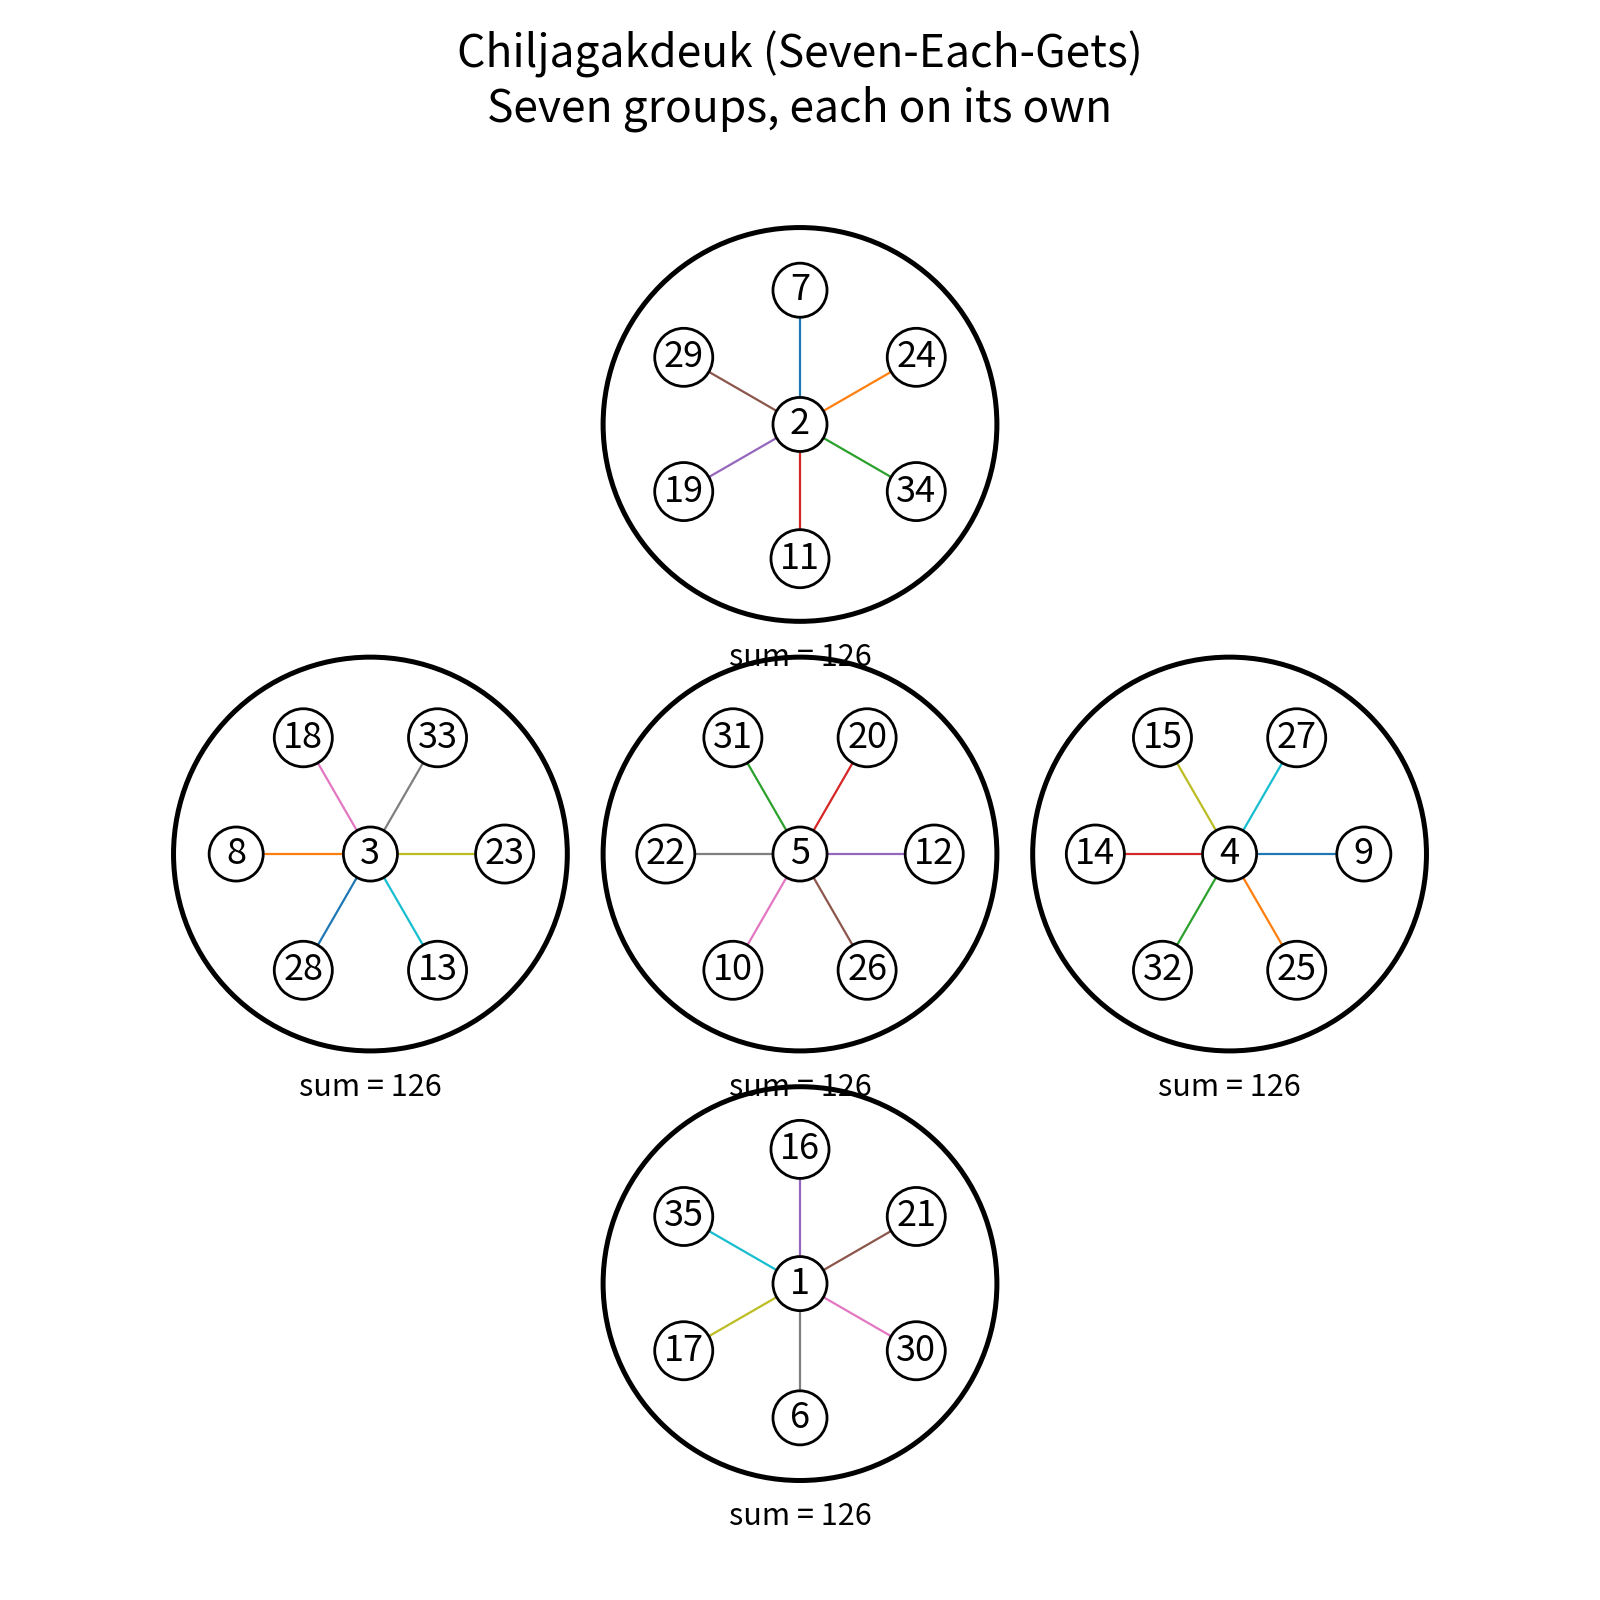
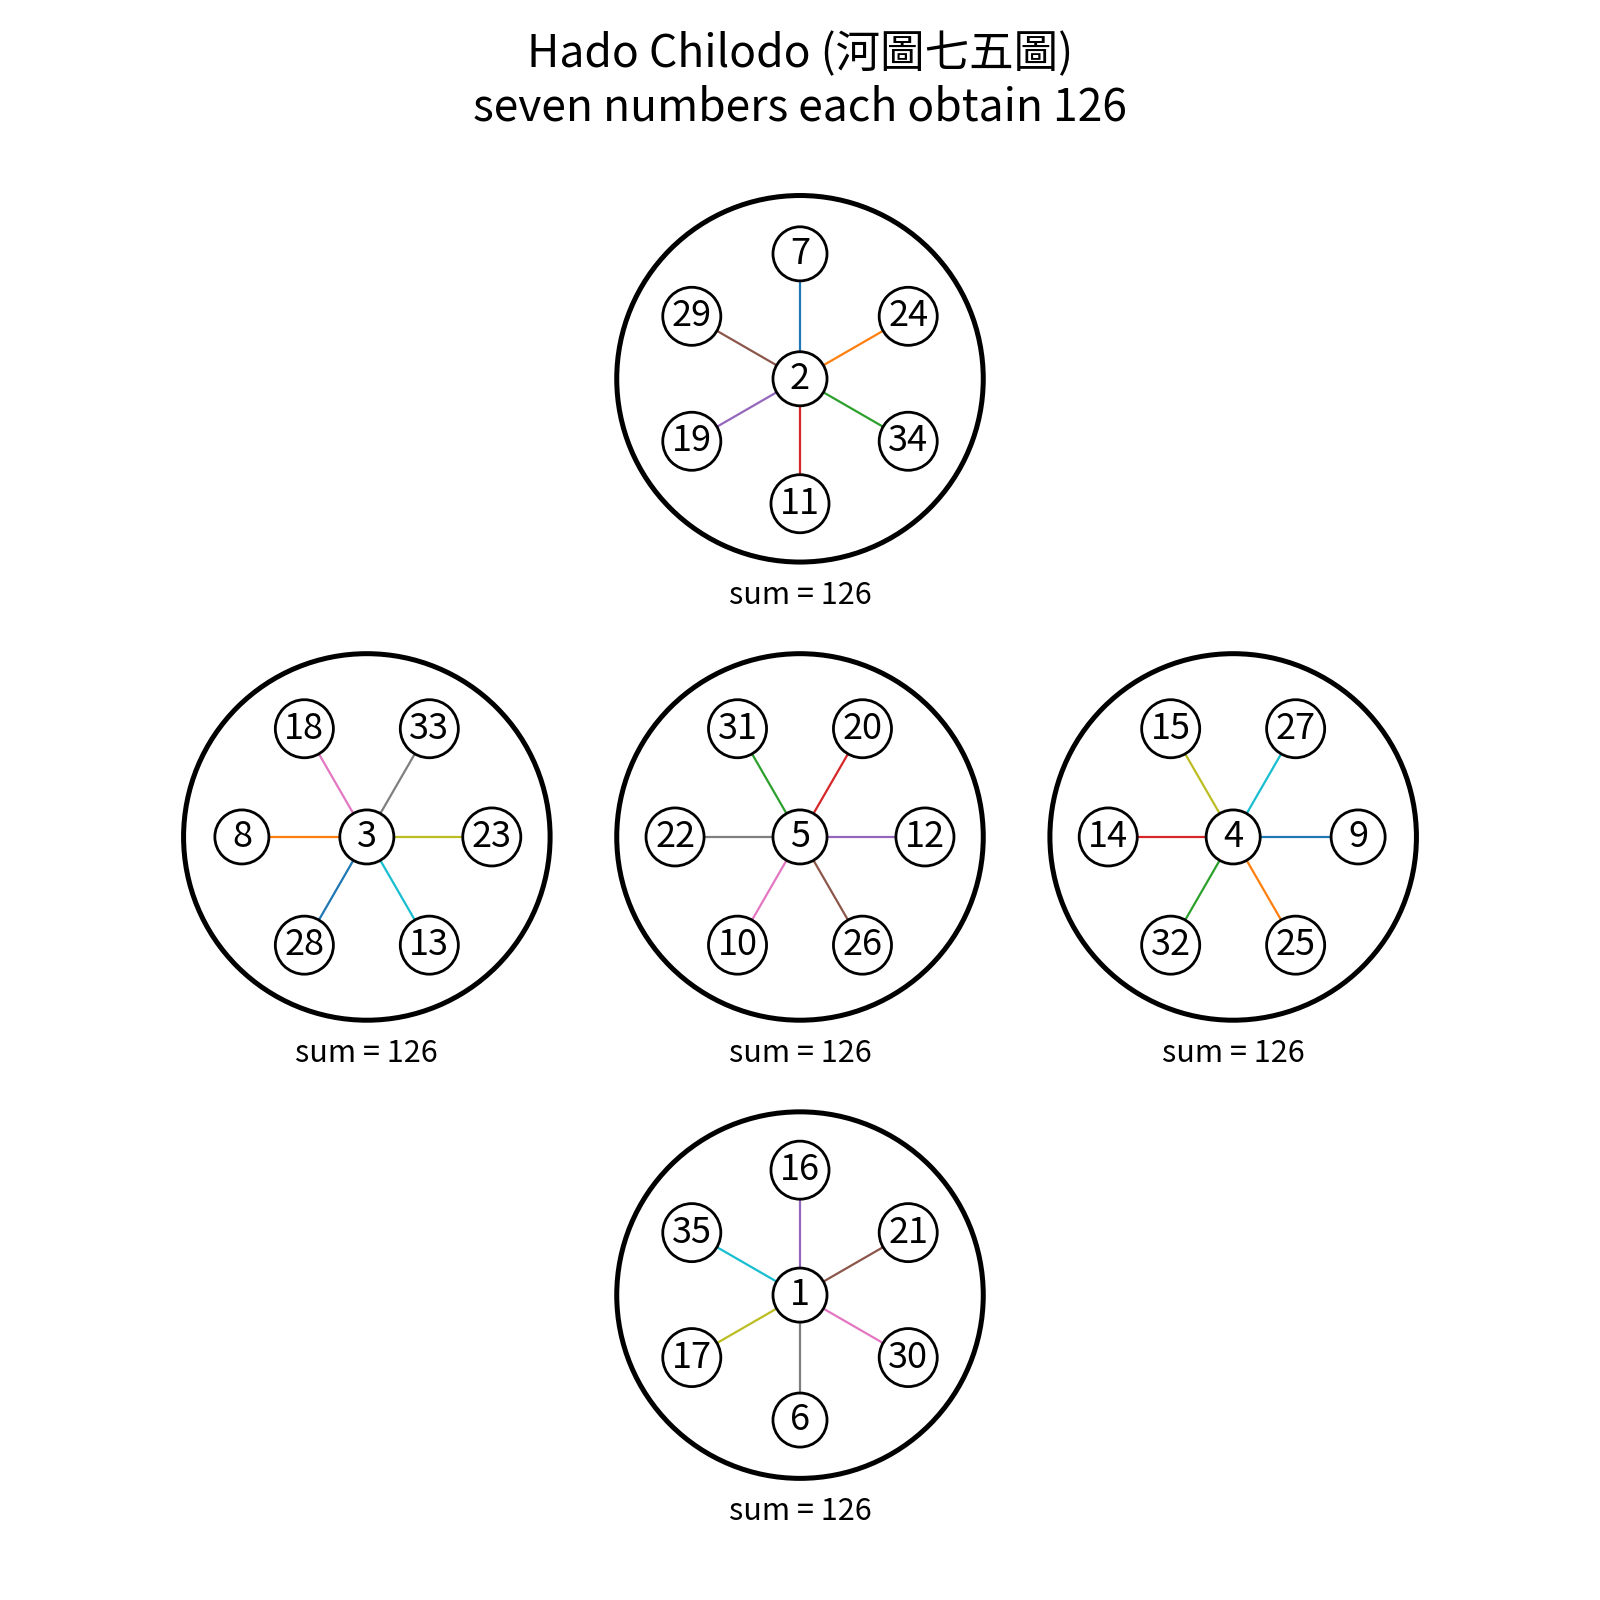
Hado Chilodo printed-diagram figure: title 河圖七五圖, wider spacing

diff --git a/english/02-gakdeuk-series/chiljagakdeuk-seven-each-gets/from_textbook.py b/english/02-gakdeuk-series/chiljagakdeuk-seven-each-gets/from_textbook.py
@@ -3,7 +3,7 @@ import matplotlib.pyplot as plt
 from matplotlib import font_manager
 
 
-TITLE = "Chiljagakdeuk (Seven-Each-Gets)\nSeven groups, each on its own"
+TITLE = "Hado Chilodo (河圖七五圖)\nseven numbers each obtain 126"
 OUTPUT_STEM = "七子各得_예시"
 
 EXAMPLE_GROUPS = [
@@ -15,11 +15,11 @@ EXAMPLE_GROUPS = [
 ]
 
 GROUP_POSITIONS = [
-    (0.0, 2.4),
-    (-2.4, 0.0),
+    (0.0, 2.75),
+    (-2.6, 0.0),
     (0.0, 0.0),
-    (2.4, 0.0),
-    (0.0, -2.4),
+    (2.6, 0.0),
+    (0.0, -2.75),
 ]
 
 SLOT_OFFSETS = [
@@ -101,8 +101,8 @@ def main():
         draw_group(ax, values, center, start)
 
     ax.set_aspect("equal")
-    ax.set_xlim(-4, 4)
-    ax.set_ylim(-4, 4)
+    ax.set_xlim(-4.1, 4.1)
+    ax.set_ylim(-4.4, 4.2)
     ax.axis("off")
     ax.set_title(TITLE, fontsize=16)
 

diff --git a/korean/02-gakdeuk-series/칠자각득-일곱이-따로따로/from_textbook.py b/korean/02-gakdeuk-series/칠자각득-일곱이-따로따로/from_textbook.py
@@ -3,7 +3,7 @@ import matplotlib.pyplot as plt
 from matplotlib import font_manager
 
 
-TITLE = "칠자각득 (七子各得)\n일곱 놈이 따로따로"
+TITLE = "하도칠오도 (河圖七五圖)\n七子各得一百二十六數"
 OUTPUT_STEM = "七子各得_예시"
 
 EXAMPLE_GROUPS = [
@@ -15,11 +15,11 @@ EXAMPLE_GROUPS = [
 ]
 
 GROUP_POSITIONS = [
-    (0.0, 2.4),
-    (-2.4, 0.0),
+    (0.0, 2.75),
+    (-2.6, 0.0),
     (0.0, 0.0),
-    (2.4, 0.0),
-    (0.0, -2.4),
+    (2.6, 0.0),
+    (0.0, -2.75),
 ]
 
 SLOT_OFFSETS = [
@@ -101,8 +101,8 @@ def main():
         draw_group(ax, values, center, start)
 
     ax.set_aspect("equal")
-    ax.set_xlim(-4, 4)
-    ax.set_ylim(-4, 4)
+    ax.set_xlim(-4.1, 4.1)
+    ax.set_ylim(-4.4, 4.2)
     ax.axis("off")
     ax.set_title(TITLE, fontsize=16)
 
